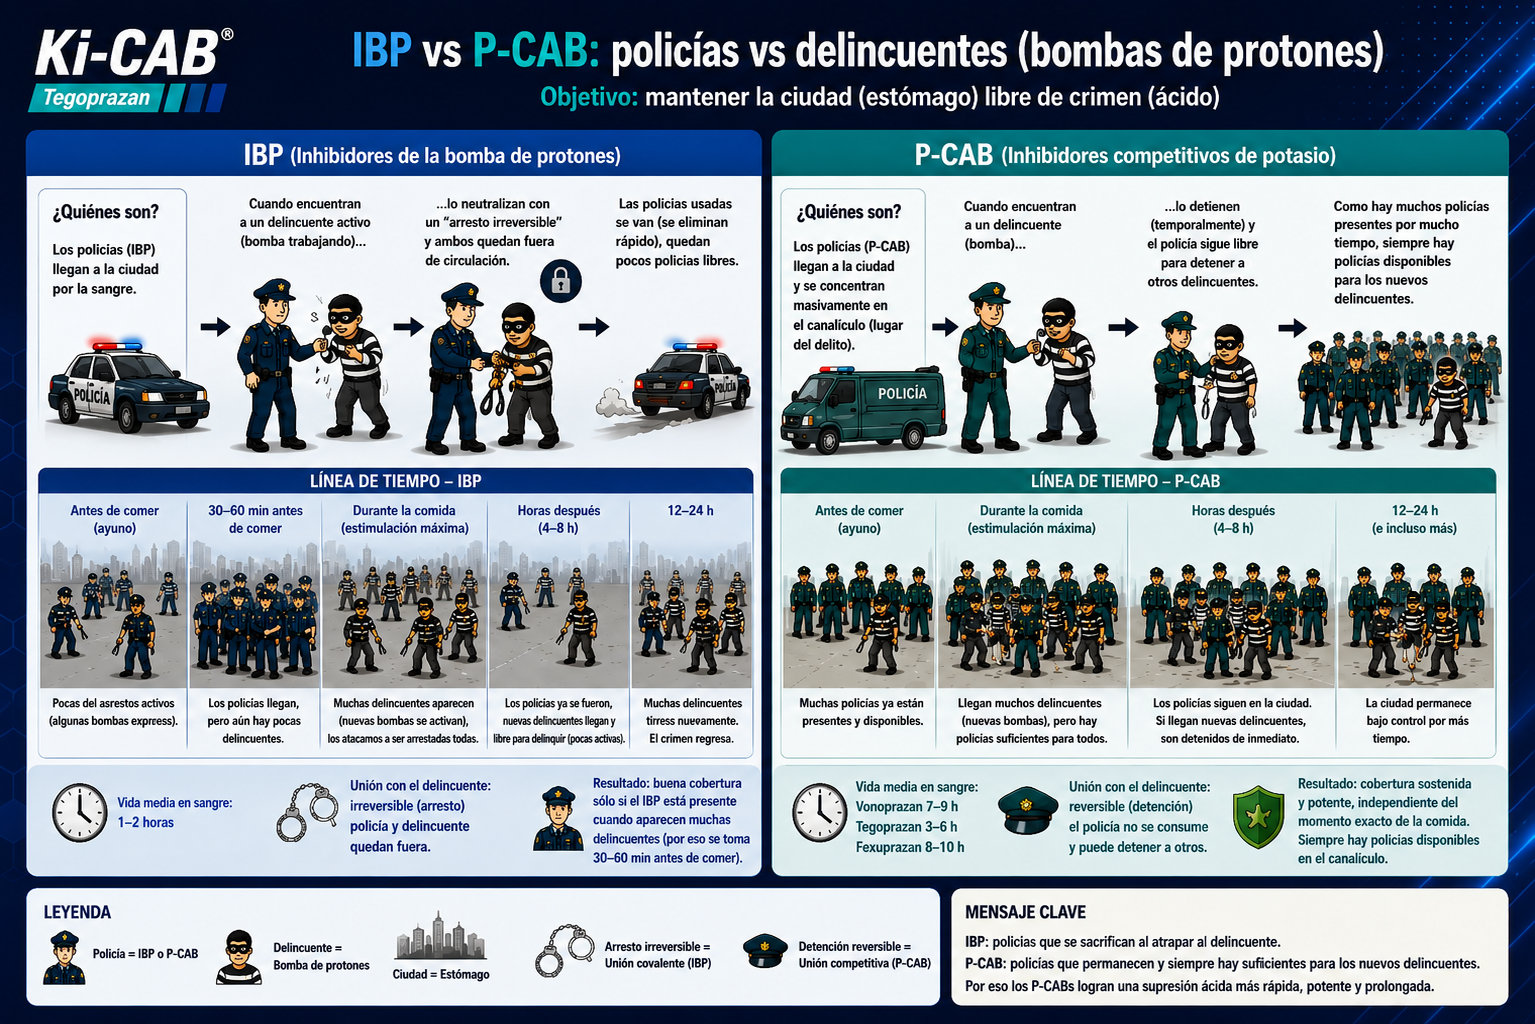
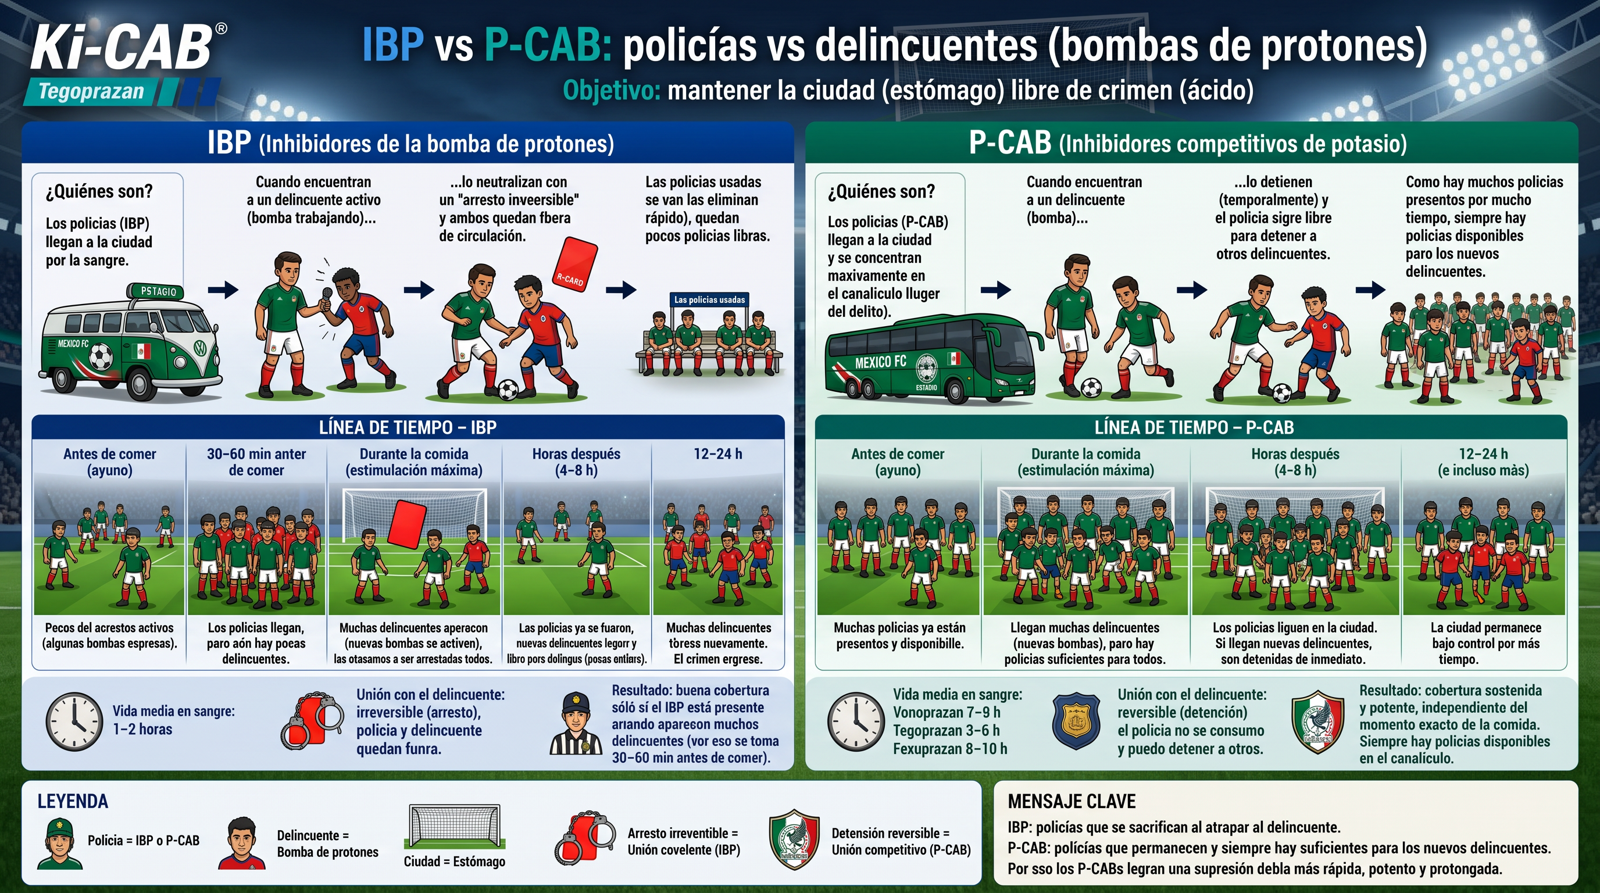
P7 (correcta A) y P8 (correcta D) nuevas preguntas/opciones, VAR sin cambios. Reemplazar caso1C.jpeg y VAR-pregunta8C.png. cache v=17

diff --git a/assets/cases.js b/assets/cases.js
@@ -119,24 +119,24 @@ const CASOS = [
     correcta:"C", mensaje_clave:"",
     var_media:["A","B","C","D","E"].map(L=>({type:"img",src:"VAR-pregunta6"+L+".png"})), fuentes:[], validado:true },
   { id:7, caso_clinico:2, cortinilla:"cortinilla7.mp4",
-    pregunta:"¿Según Lyon 2.0, se confirma ERGE?",
+    pregunta:"¿Ahora qué le hacemos?",
     opciones:{
-      A:"Sí porque tiene hernia hiatal de 2-3 cm",
-      B:"Sí porque tiene esofagitis A",
-      C:"Sí porque tiene esofagitis C",
-      D:"No porque no tiene BARRETT"
+      A:"Le inician tegoprazán 50 mg cada 24 hs",
+      B:"Le inician tegoprazán 50 mg cada 12 hs",
+      C:"Le hacen pH impedancia con IBP",
+      D:"Le hacen pH impedancia sin IBP"
     },
-    correcta:"C", mensaje_clave:"",
+    correcta:"A", mensaje_clave:"",
     var_media:"ABCDEFGHIJKLMNOP".split("").map(L=>({type:"img",src:"VAR-pregunta7"+L+".png"})), fuentes:[], validado:true },
   { id:8, caso_clinico:2, cortinilla:"cortinilla8.mp4",
     pregunta:"¿Ahora qué le hacemos?",
     opciones:{
       A:"Le reiniciamos tegoprazán 50 mg cada 24 hs por 4 a 8 semanas y luego 25 mg diarios",
-      B:"Ahora si tegoprazán 50 mg cada 12 hs",
-      C:"Lo mando a cirugía previa manometría esofágica",
-      D:"Lo mando a cirugía previa pH-metría con IBP porque es refractario"
+      B:"Lo mando a cirugía previa manometría esofágica",
+      C:"Lo mando a cirugía previa pH-metría con IBP porque es refractario",
+      D:"A y C son correctas"
     },
-    correcta:["A","C"], mensaje_clave:"",
+    correcta:"D", mensaje_clave:"",
     var_media:["A","B","C"].map(L=>({type:"img",src:"VAR-pregunta8"+L+".png"})), fuentes:[], validado:true },
   { id:9, caso_clinico:2, cortinilla:"cortinilla9.mp4",
     pregunta:"Respecto al tegoprazán, ¿Qué argumento es falso?",

diff --git a/mesa/index.html b/mesa/index.html
@@ -121,7 +121,7 @@
 <script src="https://www.gstatic.com/firebasejs/10.12.2/firebase-auth-compat.js"></script>
 <script src="../assets/firebase.js"></script>
 <script src="../assets/common.js"></script>
-<script src="../assets/cases.js?v=16"></script>
+<script src="../assets/cases.js?v=17"></script>
 <script>
 const view = document.getElementById("view");
 const meChip = document.getElementById("meChip");

diff --git a/moderador/index.html b/moderador/index.html
@@ -126,7 +126,7 @@
 <script src="https://www.gstatic.com/firebasejs/10.12.2/firebase-auth-compat.js"></script>
 <script src="../assets/firebase.js"></script>
 <script src="../assets/common.js"></script>
-<script src="../assets/cases.js?v=16"></script>
+<script src="../assets/cases.js?v=17"></script>
 <script>
 const ST_NOMBRE = {lobby:"Lobby / Registro",cortinilla:"Cortinilla",pregunta:"Pregunta (sin opciones)",
   opciones:"Opciones (lee el ponente)",responder:"Respondiendo ⏱",bloqueo:"Bloqueo",

diff --git a/pantalla/index.html b/pantalla/index.html
@@ -176,7 +176,7 @@
 <script src="https://cdnjs.cloudflare.com/ajax/libs/qrcodejs/1.0.0/qrcode.min.js"></script>
 <script src="../assets/firebase.js"></script>
 <script src="../assets/common.js"></script>
-<script src="../assets/cases.js?v=16"></script>
+<script src="../assets/cases.js?v=17"></script>
 <script>
 const scene = document.getElementById("scene");
 const casoLbl = document.getElementById("casoLbl");

diff --git a/ponente/index.html b/ponente/index.html
@@ -53,7 +53,7 @@
 <script src="https://www.gstatic.com/firebasejs/10.12.2/firebase-auth-compat.js"></script>
 <script src="../assets/firebase.js"></script>
 <script src="../assets/common.js"></script>
-<script src="../assets/cases.js?v=16"></script>
+<script src="../assets/cases.js?v=17"></script>
 <script>
 const view = document.getElementById("view");
 let EV = { estado:"lobby", caso_actual:1 }, ready=false;